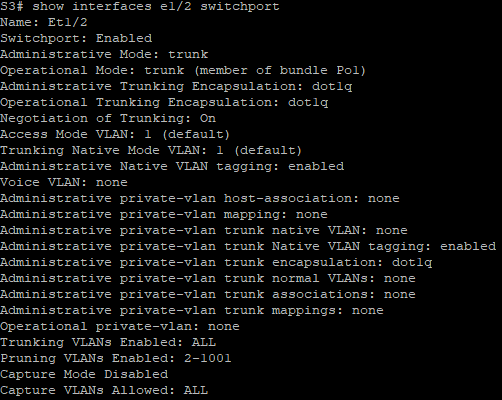
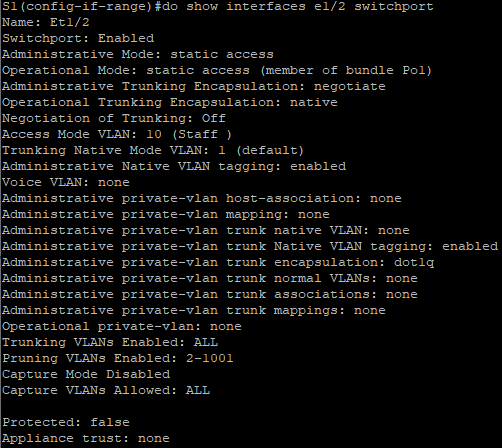
dz

Changed region(s): [[0.0, 0.0, 1.0, 1.0], [0.747, 0.42, 0.8068, 0.45]]

diff --git a/EtherChannel/EtherChannel.md b/EtherChannel/EtherChannel.md
@@ -27,94 +27,205 @@
 
 ### Настройка базовых параметров коммутатора
 
-Создание сети из примера лабораторной работы , а также настройка базовых параметров на коммутаторах: Имя хоста, создание inter vlan 99 , назначение ip-address ,отключение поиск DNS, шифрование незашифрованных паролей, Создание баннерного сообщения дня MOTD, назначение пароля class на привилегированный режим , пароль на VTY ,  настроим предотвращение прерывание команд , сохранение конфигурации.
+Для начало настроим имя устройства:
 
 **S1:**
-enable<br/>
-conf t<br/>
-hos S1<br/>
-int vla 99<br/>
-S1: ip addr 192.168.99.11 255.255.255.0<br/>
-S2: ip addr 192.168.99.12 255.255.255.0 <br/>
-S3: ip addr 192.168.99.13 255.255.255.0 <br/>
-no shut<br/>
-exit<br/>
+enable <br/>
+conf t <br/>
+hos S1 ( S2, S3 соответственно на других устройствах ) 
+
+Зададим IP  адресацию для устройств согласно условию:
+
+int vla 99 
+S1: ip addr 192.168.99.11 255.255.255.0 <br/>
+S2: ip addr 192.168.99.12 255.255.255.0  <br/>S3: ip addr 192.168.99.13 255.255.255.0  <br/>no shut <br/>
+exit <br/>
+
+Отключим поиск DNS , зашифруем пароли ,а также назначим баннерное сообщение:
+
 no ip domain-loo<br/>
 service password-encryption<br/>
-Banner motd "This is a secure system. Authorized Access Only!"<br/>
-enable secret class<br/>
-line vty 0 4<br/>
-logging synchronous<br/>
-password cisco<br/>
-login<br/>
-exit<br/>
+Banner motd "This is a secure system. Authorized Access Only!" <br/>
 
-Конечно на других устройствах будет другой номер имени Устройства и IP-адрес.
-Далее отключение портов на коммутаторах:
+Зададим пароль на привилегированный режим , консольный режим и на VTY ,а также сервис по синхронной регистрации.
+
+enable secret class <br/>
+line vty 0 4 <br/>
+logging synchronous<br/>
+password cisco <br/>
+login <br/>
+exit <br/>
+line con 0<br/>
+logging synchronous<br/>
+password cisco <br/>
+login <br/>
+exit <br/>
+
+Отключим все порты на устройстве, кроме тех,что смотрят в сторону ПК
 
 int ran e0/1-3<br/>
-shut<br/>
+shut <br/>
 int ran e1/0-3<br/>
-shut<br/>
+shut <br/>
 
- создание VLAN 99 , 10 именем **Management** и **Staff** соответственно
+создадим VLAN 99 , 10 именем **Management** и **Staff** соответственно
 
-vlan 99<br/>
-name Management<br/>
-vlan 10<br/>
-name Staff<br/>
+vlan 99 <br/>
+name Management <br/>
+vlan 10 <br/>name Staff <br/>
 
-Присвоим на портах коммутатора в сторону ПК режим доступа: 
+Настроим порты коммутатора с присоединёнными узлами в качестве портов доступа в сети VLAN 10: 
 
+int ran e0/1-3<br/>
+sw m ac<br/>
+int ran e1/0-3<br/>
+sw m ac<br/>
 int e0/0<br/>
 sw m ac<br/>
-sw ac v 10<br/>
+sw ac vl 10<br/>
 
 Сохраним конфигурацию:
 
 do copy run start<br/>
-[Enter]<br/>
+[Enter] <br/>
 
 Пропишем на ПК
 
 **A:** 
-ip 192.168.10.1/24<br/>
-save<br/>
+ip 192.168.10.1/24 <br/>
+save <br/>
 **B:** 
-ip 192.168.10.2/24<br/>
-save<br/>
+ip 192.168.10.2/24 <br/>
+save <br/>
 **C:** 
-ip 192.168.10.3/24<br/>
-save<br/>
-
-На всех остальных коммутаторах в сети конфигурация повторяется,поэтому не стал дублировать текст для каждого устройства.
+ip 192.168.10.3/24 <br/>
+save <br/>
 
 ### Настройка протокола PAgP
 
 Настроим для S1 и S3 PAgP :
 
 S1(config): 
-int ran e1/2-3<br/>
-channel-group 1 mode desirable<br/>
-no shut<br/>
+int ran e1/2-3 <br/>
+channel-group 1 mode desirable <br/>
+no shut <br/>
 
 S3(config): 
 
-int ran e1/2-3<br/>
-channel-group 1 mode auto<br/>
-no shut<br/>
+int ran e1/2-3 <br/>
+channel-group 1 mode auto <br/>
+no shut <br/>
 
-**do show run interface e1/2**
-
-![img](img/2.png)
-
-
-
-**S1# show interfaces e1/2 switchport**
+do show run interface e1/2<br/>
 
 ![img](img/3.png)
 
-S3# **show etherchannel summary**
 
-![image-20200328134313895](C:\Users\Admin\Documents\GitHub\OTUS_Network\EtherChannel\img/4.png)
 
+**S1# show interfaces e1/2 switchport**<br/>
+
+![img](img/3.png)
+
+S3# **show etherchannel summary<br/>**
+
+![img](img/4.png)
+
+Как видим ,порты у нас в режиме доступа, надо это будет подправить. Так как эти порты находятся в группе, конфигурация этих портов упрощается :
+
+
+
+S1(config)# 
+interface port-channel 1<br/>
+switchport trunk encapsulation dot1q<br/>
+switchport mode trunk<br/>
+switchport trunk native vlan 99<br/>
+no shut<br/>
+
+S3(config-if)# 
+interface port-channel 1<br/>
+switchport trunk encapsulation dot1q<br/>
+switchport mode trunk<br/>
+switchport trunk native vlan 99<br/>
+no shut<br/>
+
+Выполните команды **show run interface** *идентификатор-интерфейса* на S1 и S3. Какие команды включены в список для интерфейсов F0/3 и F0/4 на обоих коммутаторах? Сравните результаты с текущей конфигурацией для интерфейса Po1. Запишите наблюдения.
+
+interface Ethernet1/2<br/>
+ switchport access vlan 10<br/>
+ switchport trunk encapsulation dot1q<br/>
+ switchport trunk native vlan 99<br/>
+ switchport mode trunk<br/>
+ channel-group 1 mode desirable<br/>
+end<br/>
+
+Команды одинаковы с одной и другой стороны
+
+Выполните команды **show interfaces trunk** и **show spanning-tree** на S1и S3. Какой транковый порт включен в список? Какая используется сеть native VLAN? Какой вывод можно сделать на основе выходных данных?
+
+Порт Po1 с Native VLAN 99 , мы используем PAgP
+
+Какие значения стоимости и приоритета порта для агрегированного канала отображены в выходных данных команды **show spanning-tree**?
+
+Уменьшилось со 100 до 56 (проверил на обоих коммутаторах)
+
+![img](img/5b.png)
+
+
+
+###   **Настройка протокола LACP**
+
+Перейдем к настройке портов S1 - S2
+
+S1(config)# 
+interface range e0/1-2<br/>
+switchport trunk encapsulation dot1q<br/>
+switchport mode trunk<br/>
+switchport trunk native vlan 99<br/>
+channel-group 2 mode active<br/>
+no shutdown<br/>
+exit<br/>
+
+S2(config)# 
+interface range e0/1-2<br/>
+switchport trunk encapsulation dot1q<br/>
+switchport mode trunk<br/>
+switchport trunk native vlan 99<br/>
+channel-group 2 mode active<br/>
+no shutdown<br/>
+exit<br/>
+
+Диагностика :
+
+S1(config)#do show etherchannel summary<br/>
+
+![img](img/ethsum.png)
+
+
+
+Перейдем к настройке портов S2 - S3
+
+S2(config)# 
+interface range e1/0-1<br/>
+switchport trunk encapsulation dot1q<br/>
+switchport mode trunk<br/>
+switchport trunk native vlan 99<br/>
+channel-group 2 mode active<br/>
+no shutdown<br/>
+exit<br/>
+
+S3(config)# 
+interface range  e1/0-1<br/>
+switchport trunk encapsulation dot1q<br/>
+switchport mode trunk<br/>
+switchport trunk native vlan 99<br/>
+channel-group 2 mode active<br/>
+no shutdown<br/>
+exit<br/>
+
+И наконец полезные команды укажу:
+
+```
+show etherchannel summary
+show etherchannel 1 port-channel
+show interfaces etherchannel
+```

diff --git a/STP/Labs_STP.md b/STP/Labs_STP.md
@@ -182,5 +182,5 @@ exit<br/>
 
 3. Если оба значения на двух портах равны, каким будет следующее значение, которое использует протокол STP при выборе порта?
 
-    STP может принимать следующие  значения:  прослушивание (Listening), обучение (Learning), коммутация (Forwarding),  блокирование (Blocking). То есть если не получается коммутировать,то он порты блокирует,выбирая Altn порты.
+    в этом случае STP использует номер наименьшего порта . 
 
